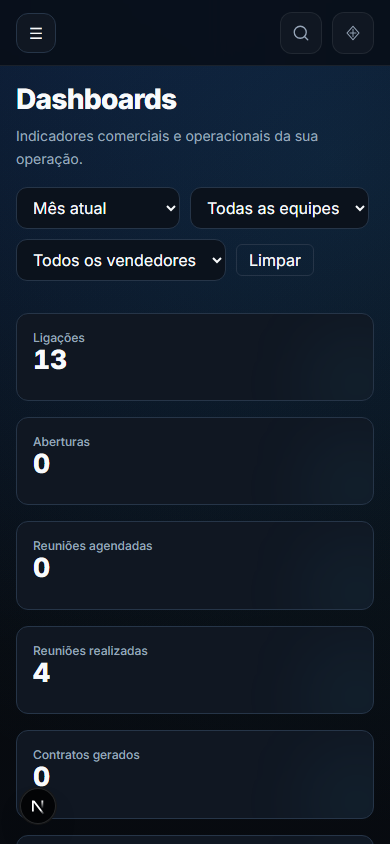
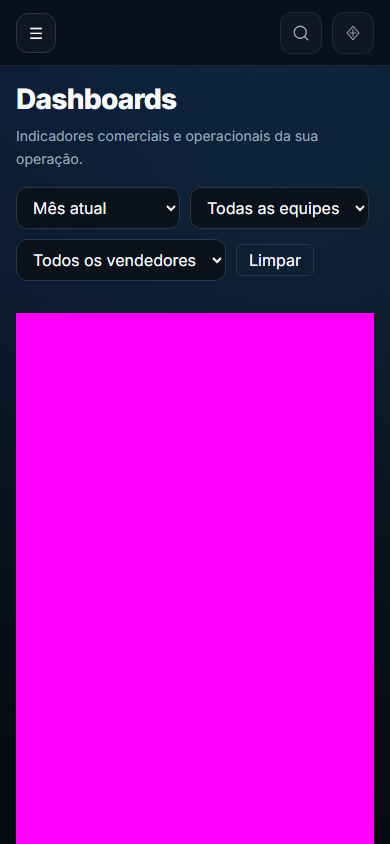
fix: stabilize production readiness validation

diff --git a/e2e/visual-reference.spec.ts b/e2e/visual-reference.spec.ts
@@ -25,6 +25,27 @@ const APP_ROUTES = [
   "/notificacoes",
 ] as const;
 
+/** Regiões com dados de CRM/QA variáveis — mascaradas para regressão de layout, não de números. */
+async function dynamicScreenshotMasks(
+  page: import("@playwright/test").Page,
+  route: string,
+): Promise<import("@playwright/test").Locator[]> {
+  if (route === "/dashboards") {
+    return [page.locator(".space-y-8 > section"), page.locator(".chart-card")];
+  }
+  return [];
+}
+
+async function stabilizeRoute(page: import("@playwright/test").Page, route: string) {
+  if (route === "/gamificacao") {
+    await expect(page.getByRole("heading", { name: "Gamificação" })).toBeVisible({ timeout: 20_000 });
+    await expect(page.getByRole("tablist")).toBeVisible({ timeout: 10_000 });
+  }
+  if (route === "/dashboards") {
+    await expect(page.getByRole("heading", { name: "Dashboards" })).toBeVisible({ timeout: 20_000 });
+  }
+}
+
 test.describe("Regressão visual — referência Dark Executive", () => {
   test.beforeAll(() => {
     expect(existsSync(REFERENCE_HTML), `HTML de referência em ${REFERENCE_HTML}`).toBeTruthy();
@@ -50,11 +71,14 @@ test.describe("Regressão visual — referência Dark Executive", () => {
       await page.goto(route);
       await page.waitForLoadState("networkidle", { timeout: 20_000 }).catch(() => undefined);
       await expect(page.locator(".dark-executive-app")).toBeVisible({ timeout: 20_000 });
+      await stabilizeRoute(page, route);
       await page.evaluate(() => document.fonts.ready);
       const slug = route.replace(/\//g, "-").replace(/^-/, "") || "root";
+      const mask = await dynamicScreenshotMasks(page, route);
       await expect(page).toHaveScreenshot(`${slug}-desktop.png`, {
         maxDiffPixelRatio: 0.02,
         fullPage: false,
+        mask,
       });
     });
 
@@ -67,11 +91,14 @@ test.describe("Regressão visual — referência Dark Executive", () => {
       await page.goto(route);
       await page.waitForLoadState("networkidle", { timeout: 20_000 }).catch(() => undefined);
       await expect(page.locator(".dark-executive-app")).toBeVisible({ timeout: 20_000 });
+      await stabilizeRoute(page, route);
       await page.evaluate(() => document.fonts.ready);
       const slug = route.replace(/\//g, "-").replace(/^-/, "") || "root";
+      const mask = await dynamicScreenshotMasks(page, route);
       await expect(page).toHaveScreenshot(`${slug}-mobile.png`, {
         maxDiffPixelRatio: 0.08,
         fullPage: false,
+        mask,
       });
     });
   }

diff --git a/scripts/production-check.ts b/scripts/production-check.ts
@@ -30,7 +30,7 @@ function assertFile(path: string, label?: string) {
   }
 }
 
-function checkDangerousArtifacts() {
+function checkGitignore() {
   const gitignore = readText(".gitignore");
   for (const pattern of [".env", ".env.local", ".env.production", ".local/"]) {
     if (!gitignore.includes(pattern.replace(/\*$/, ""))) {

diff --git a/docs/production/README-PRODUCAO-WINDOWS.md b/docs/production/README-PRODUCAO-WINDOWS.md
@@ -3,7 +3,8 @@
 **Para:** Guilherme (operador do servidor)  
 **Objetivo:** Subir a Bússola em produção econômica usando Windows Server Azure + Supabase.
 
-> Este guia **não faz deploy automaticamente**. Siga as fases na ordem.
+> Este guia **não faz deploy automaticamente**. Siga as fases na ordem.  
+> **Plano de produção:** Windows Server Azure + Supabase. A Vercel foi usada apenas em homologação/staging — não é o caminho desta produção.
 
 ---
 

diff --git a/docs/production/azure-windows-supabase-runbook.md b/docs/production/azure-windows-supabase-runbook.md
@@ -2,6 +2,9 @@
 
 Guia completo para subir a Bússola em produção econômica.
 
+> **Produção alvo:** Windows Server Azure + Supabase Cloud.  
+> Vercel permanece apenas como histórico de homologação/staging — não use Vercel Production para este go-live.
+
 ## Arquitetura
 
 ```